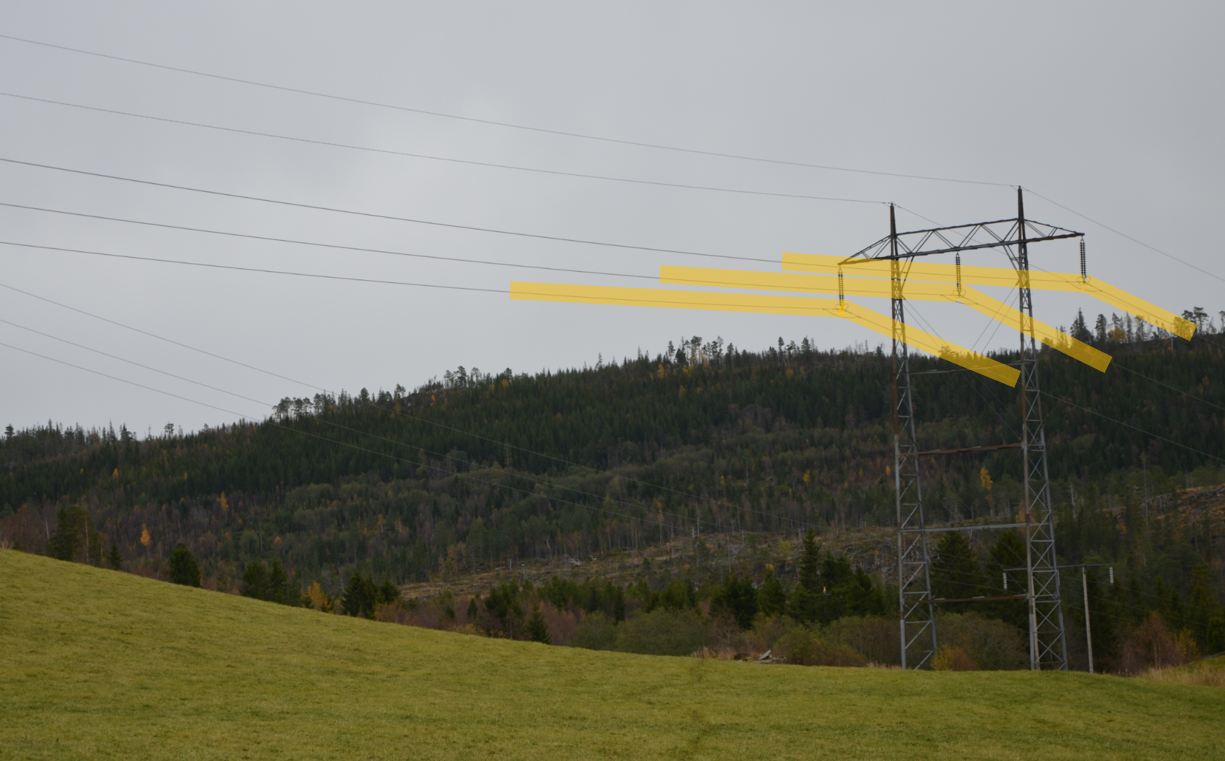
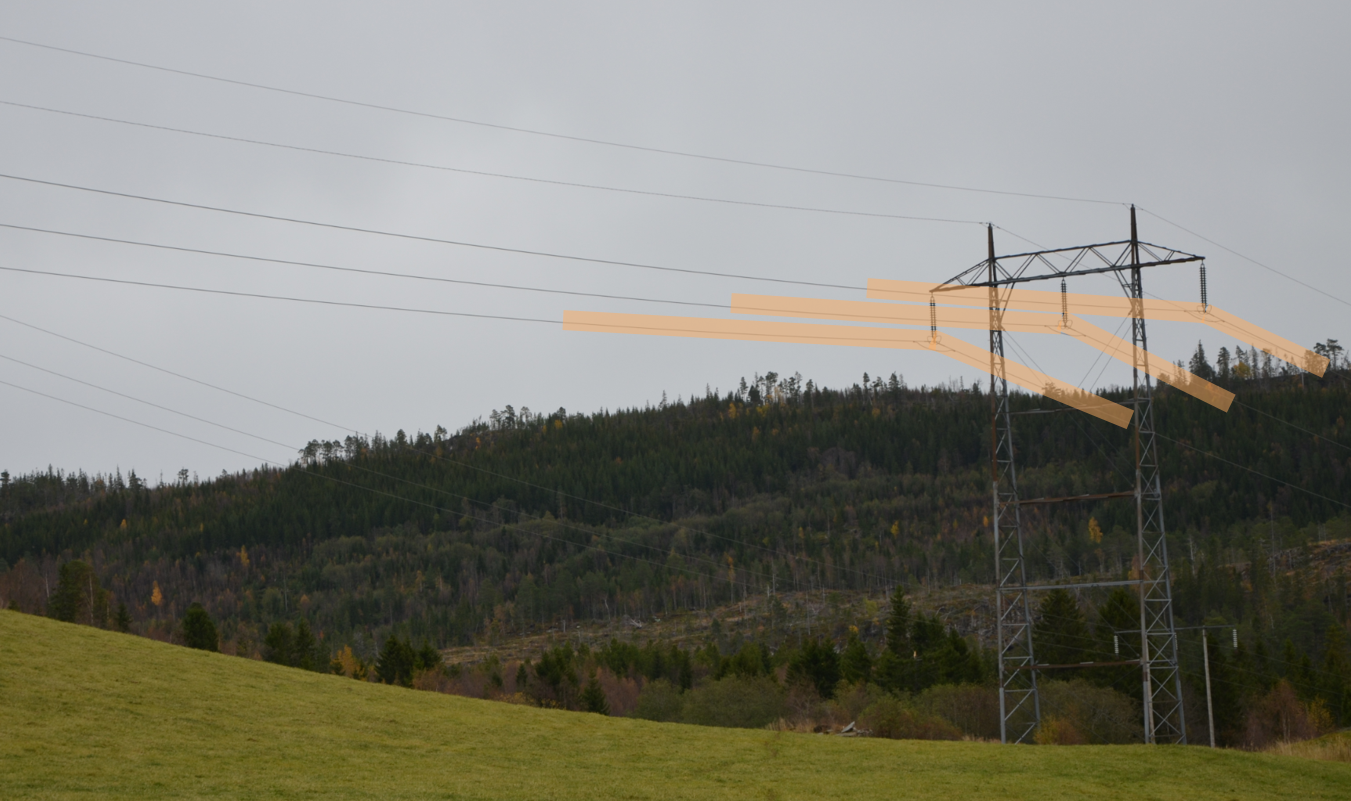
diverse oppdateringer i reg. instruks

diff --git a/registreringsinstrukser/ledninglaser/index.html b/registreringsinstrukser/ledninglaser/index.html
@@ -589,9 +589,9 @@ body.book #toc,body.book #preamble,body.book h1.sect0,body.book .sect1>h2{page-b
 </div>
 <div class="imageblock">
 <div class="content">
-<img src="figurer\eksempel_klassifisering_ledning.png" alt="figurer\eksempel klassifisering ledning">
+<img src="figurer\eksempel_klassifisering_ledning2.png" alt="figurer\eksempel klassifisering ledning2">
 </div>
-<div class="title">Figur 2. Eksempel fra Vestland på punktsky med klassifiserte ledningsobjekt.</div>
+<div class="title">Figur 2. Eksempel fra Sunnhordland på punktsky med klassifiserte ledningsobjekt.</div>
 </div>
 <div style="page-break-after: always;"></div>
 </div>
@@ -867,7 +867,7 @@ body.book #toc,body.book #preamble,body.book h1.sect0,body.book .sect1>h2{page-b
 <p><strong>Definisjon fra FKB produktspesifikasjon</strong>: ledning hvor form&#229;let er &#229; lede farlige overspenninger til jord. ledningen er under normale forhold ikke str&#248;mf&#248;rende</p>
 </div>
 <div class="sect4">
-<h5 id="truetilleggsinformasjon-for-fotogrammetrisk-registrering"><a class="anchor" href="#truetilleggsinformasjon-for-fotogrammetrisk-registrering"></a>Tilleggsinformasjon for fotogrammetrisk registrering</h5>
+<h5 id="truetilleggsinformasjon-for-vektorisering-fra-laserdata"><a class="anchor" href="#truetilleggsinformasjon-for-vektorisering-fra-laserdata"></a>Tilleggsinformasjon for vektorisering fra laserdata</h5>
 <div class="paragraph">
 <p>Dette er liner som benyttes som lynavledere og som benyttes for &#229; hindre at evt. overspenning skal sl&#229; i spenningsf&#248;rende deler. P&#229; traseer med stor spenning, typisk sentralnettet, ligger jordledningen over fasene og betegnes som toppliner.</p>
 </div>
@@ -1134,7 +1134,7 @@ body.book #toc,body.book #preamble,body.book h1.sect0,body.book .sect1>h2{page-b
 <p><strong>Definisjon fra FKB produktspesifikasjon</strong>: en enkelt vaier/kabel mellom to faste forankringspunkt</p>
 </div>
 <div class="sect4">
-<h5 id="truetilleggsinformasjon-for-fotogrammetrisk-registrering-2"><a class="anchor" href="#truetilleggsinformasjon-for-fotogrammetrisk-registrering-2"></a>Tilleggsinformasjon for fotogrammetrisk registrering</h5>
+<h5 id="truetilleggsinformasjon-for-vektorisering-fra-laserdata-2"><a class="anchor" href="#truetilleggsinformasjon-for-vektorisering-fra-laserdata-2"></a>Tilleggsinformasjon for vektorisering fra laserdata</h5>
 <div class="paragraph">
 <p>I denne spesifikasjonen benyttes objekttypen for faser i h&#248;yspentlinjer, men den kan ogs&#229; benyttes for andre typer luftlinjer.</p>
 </div>
@@ -1421,7 +1421,7 @@ En mast kan best&#229; av en eller flere stolper og beskriver mastens representa
 <div class="title">Figur 9. Illustrasjon fra produktspesifikasjon av Mast</div>
 </div>
 <div class="sect4">
-<h5 id="truetilleggsinformasjon-for-fotogrammetrisk-registrering-3"><a class="anchor" href="#truetilleggsinformasjon-for-fotogrammetrisk-registrering-3"></a>Tilleggsinformasjon for fotogrammetrisk registrering</h5>
+<h5 id="truetilleggsinformasjon-for-vektorisering-fra-laserdata-3"><a class="anchor" href="#truetilleggsinformasjon-for-vektorisering-fra-laserdata-3"></a>Tilleggsinformasjon for vektorisering fra laserdata</h5>
 <div class="paragraph">
 <p>I denne spesifikasjonen benyttes objekttypen for mast i h&#248;yspenttrase, men den kan ogs&#229; benyttes for andre typer master.</p>
 </div>
@@ -1673,7 +1673,7 @@ En mast kan best&#229; av en eller flere stolper og beskriver mastens representa
 <div class="sect3">
 <h4 id="truestedfestingsnøyaktighet"><a class="anchor" href="#truestedfestingsnøyaktighet"></a>4.1.1. Stedfestingsnøyaktighet</h4>
 <div class="paragraph">
-<p>Stedfestingsnøyaktighet til vektoriserte data er helt avhengig av nøyaktigheten til laserdataene. For lange spenn vil nedsenkningen av fasene være avhengig av blant annet temperatur. Dette er vanskelig å angi i dataene og dette må derfor brukerne være oppmerksomme på.</p>
+<p>Stedfestingsnøyaktighet til vektoriserte data er helt avhengig av nøyaktigheten til laserdataene. For lange spenn vil nedsenkningen av fasene være avhengig av blant annet temperatur og spenningsbelastning. Dette er vanskelig å angi i dataene og dette må derfor brukerne være oppmerksomme på.</p>
 </div>
 <div class="paragraph">
 <p>Stedfestingsnøyaktighet angis ved egenskapen <em>kvalitet</em>. For objekter som naturlig beveger seg (f.eks. Luftledning) referer nøyaktighetsangivelsen til posisjonen objektet befant seg i på skannetidspunket.</p>
@@ -1797,7 +1797,7 @@ av denne lisensen og ikke kan viderebrukes</p>
 <div id="footer">
 <div id="footer-text">
 Versjon 5.0<br>
-Last updated 2021-11-12 07:09:56 +0100
+Last updated 2021-11-15 13:36:48 +0100
 </div>
 </div>
 <link rel="stylesheet" href="https://cdnjs.cloudflare.com/ajax/libs/highlight.js/9.15.6/styles/github.min.css">
